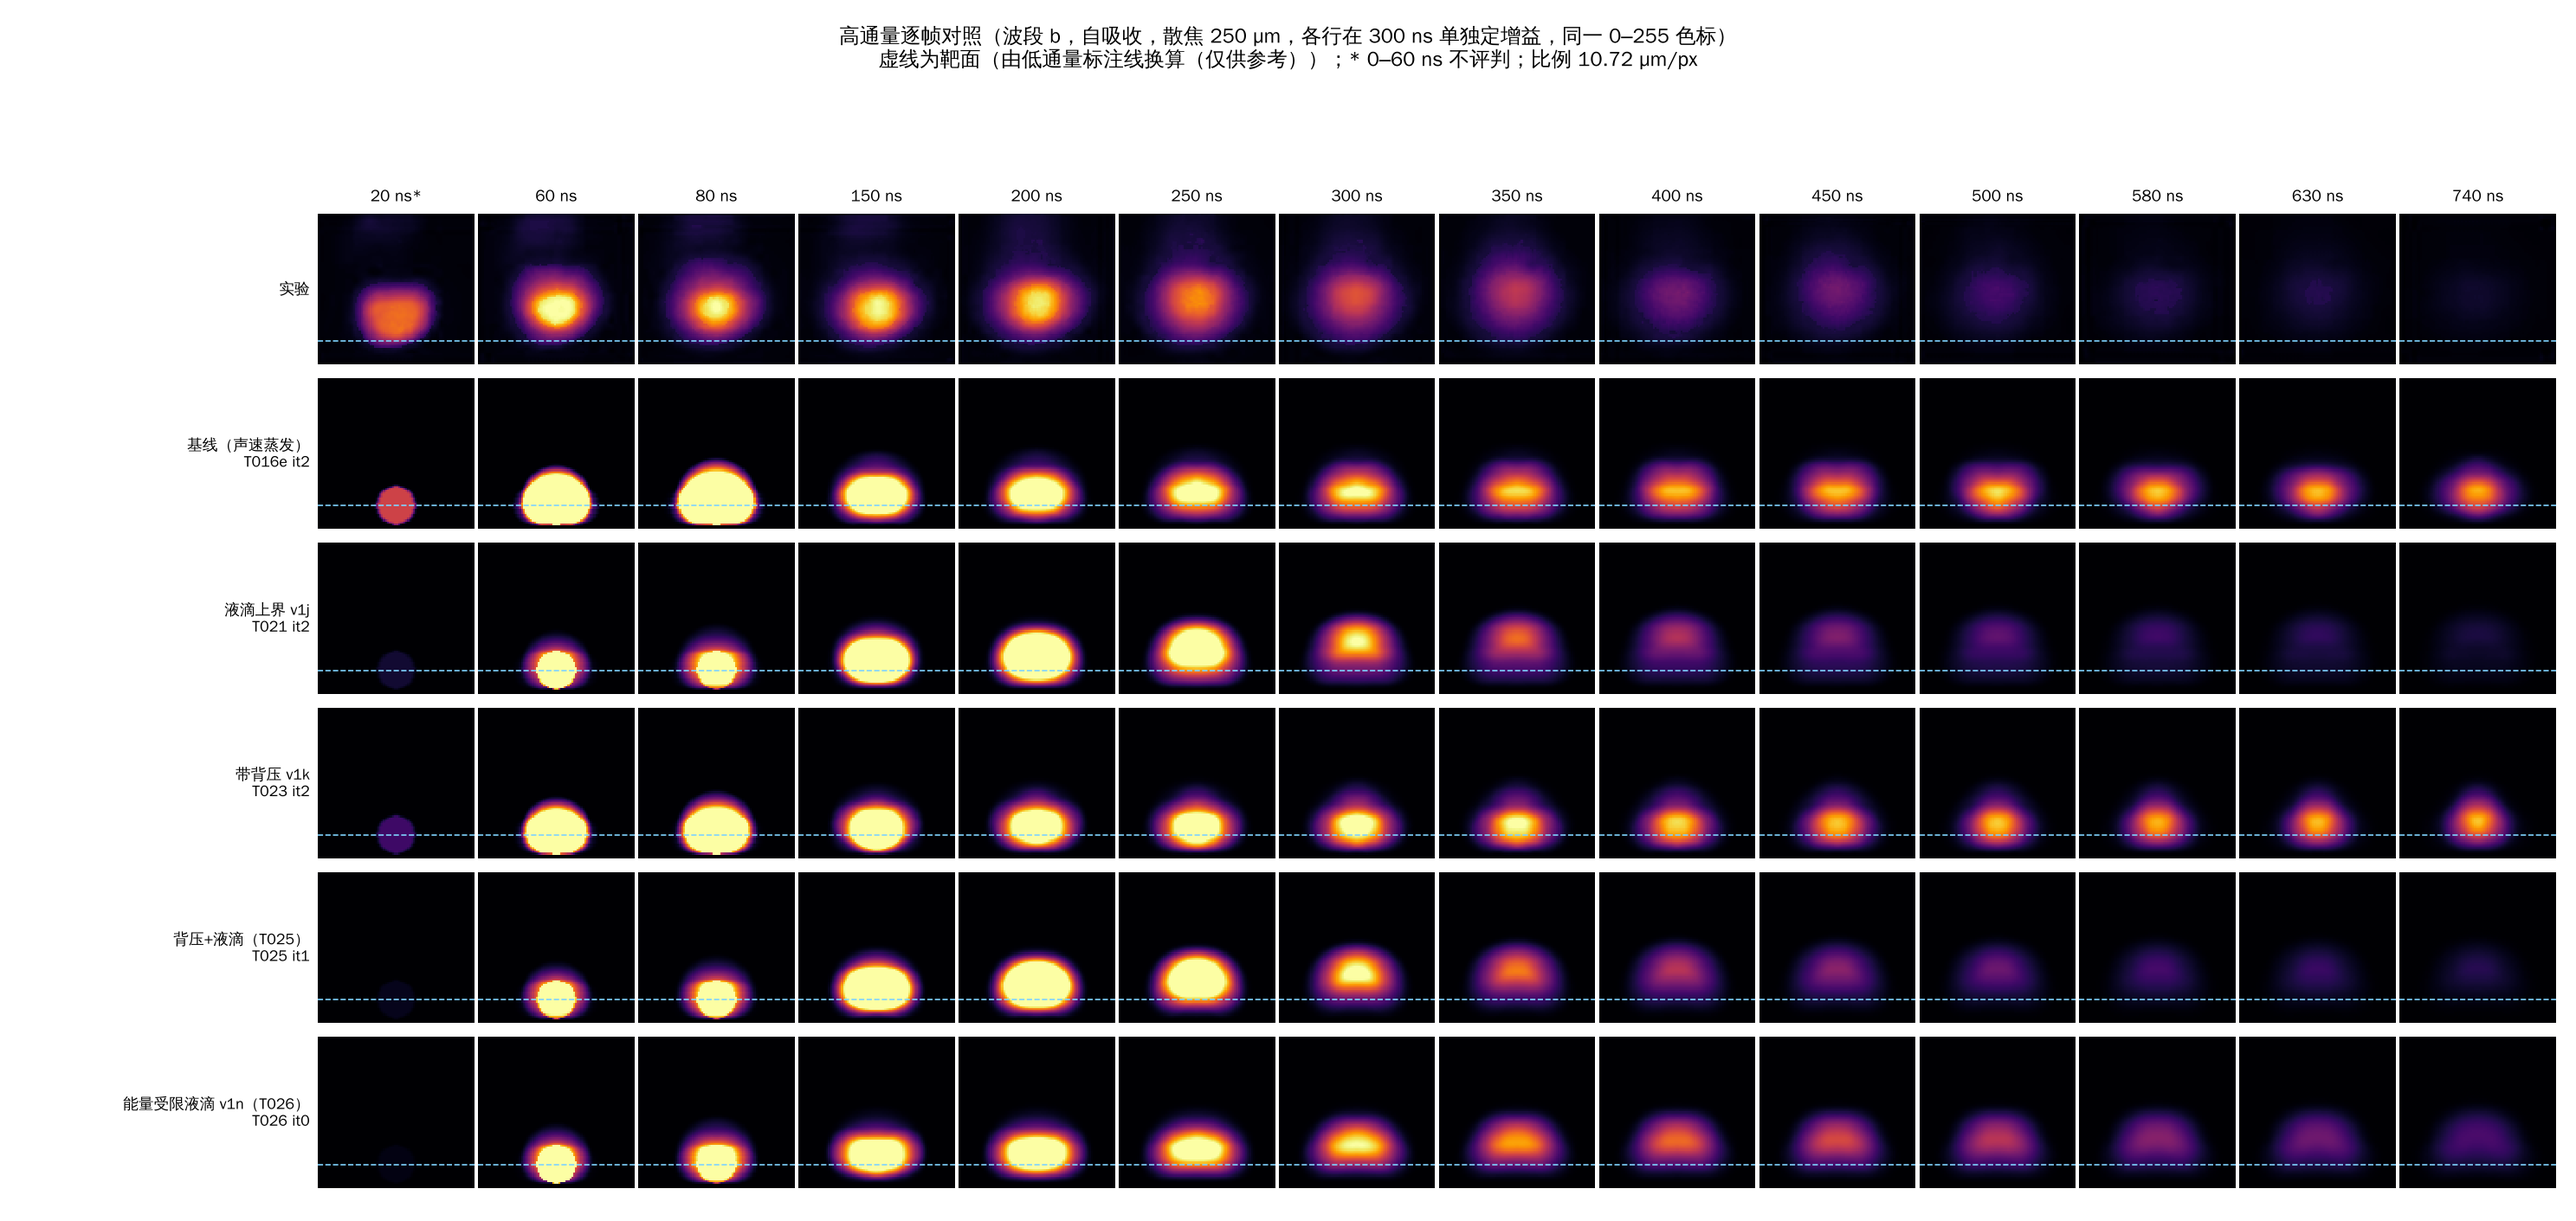
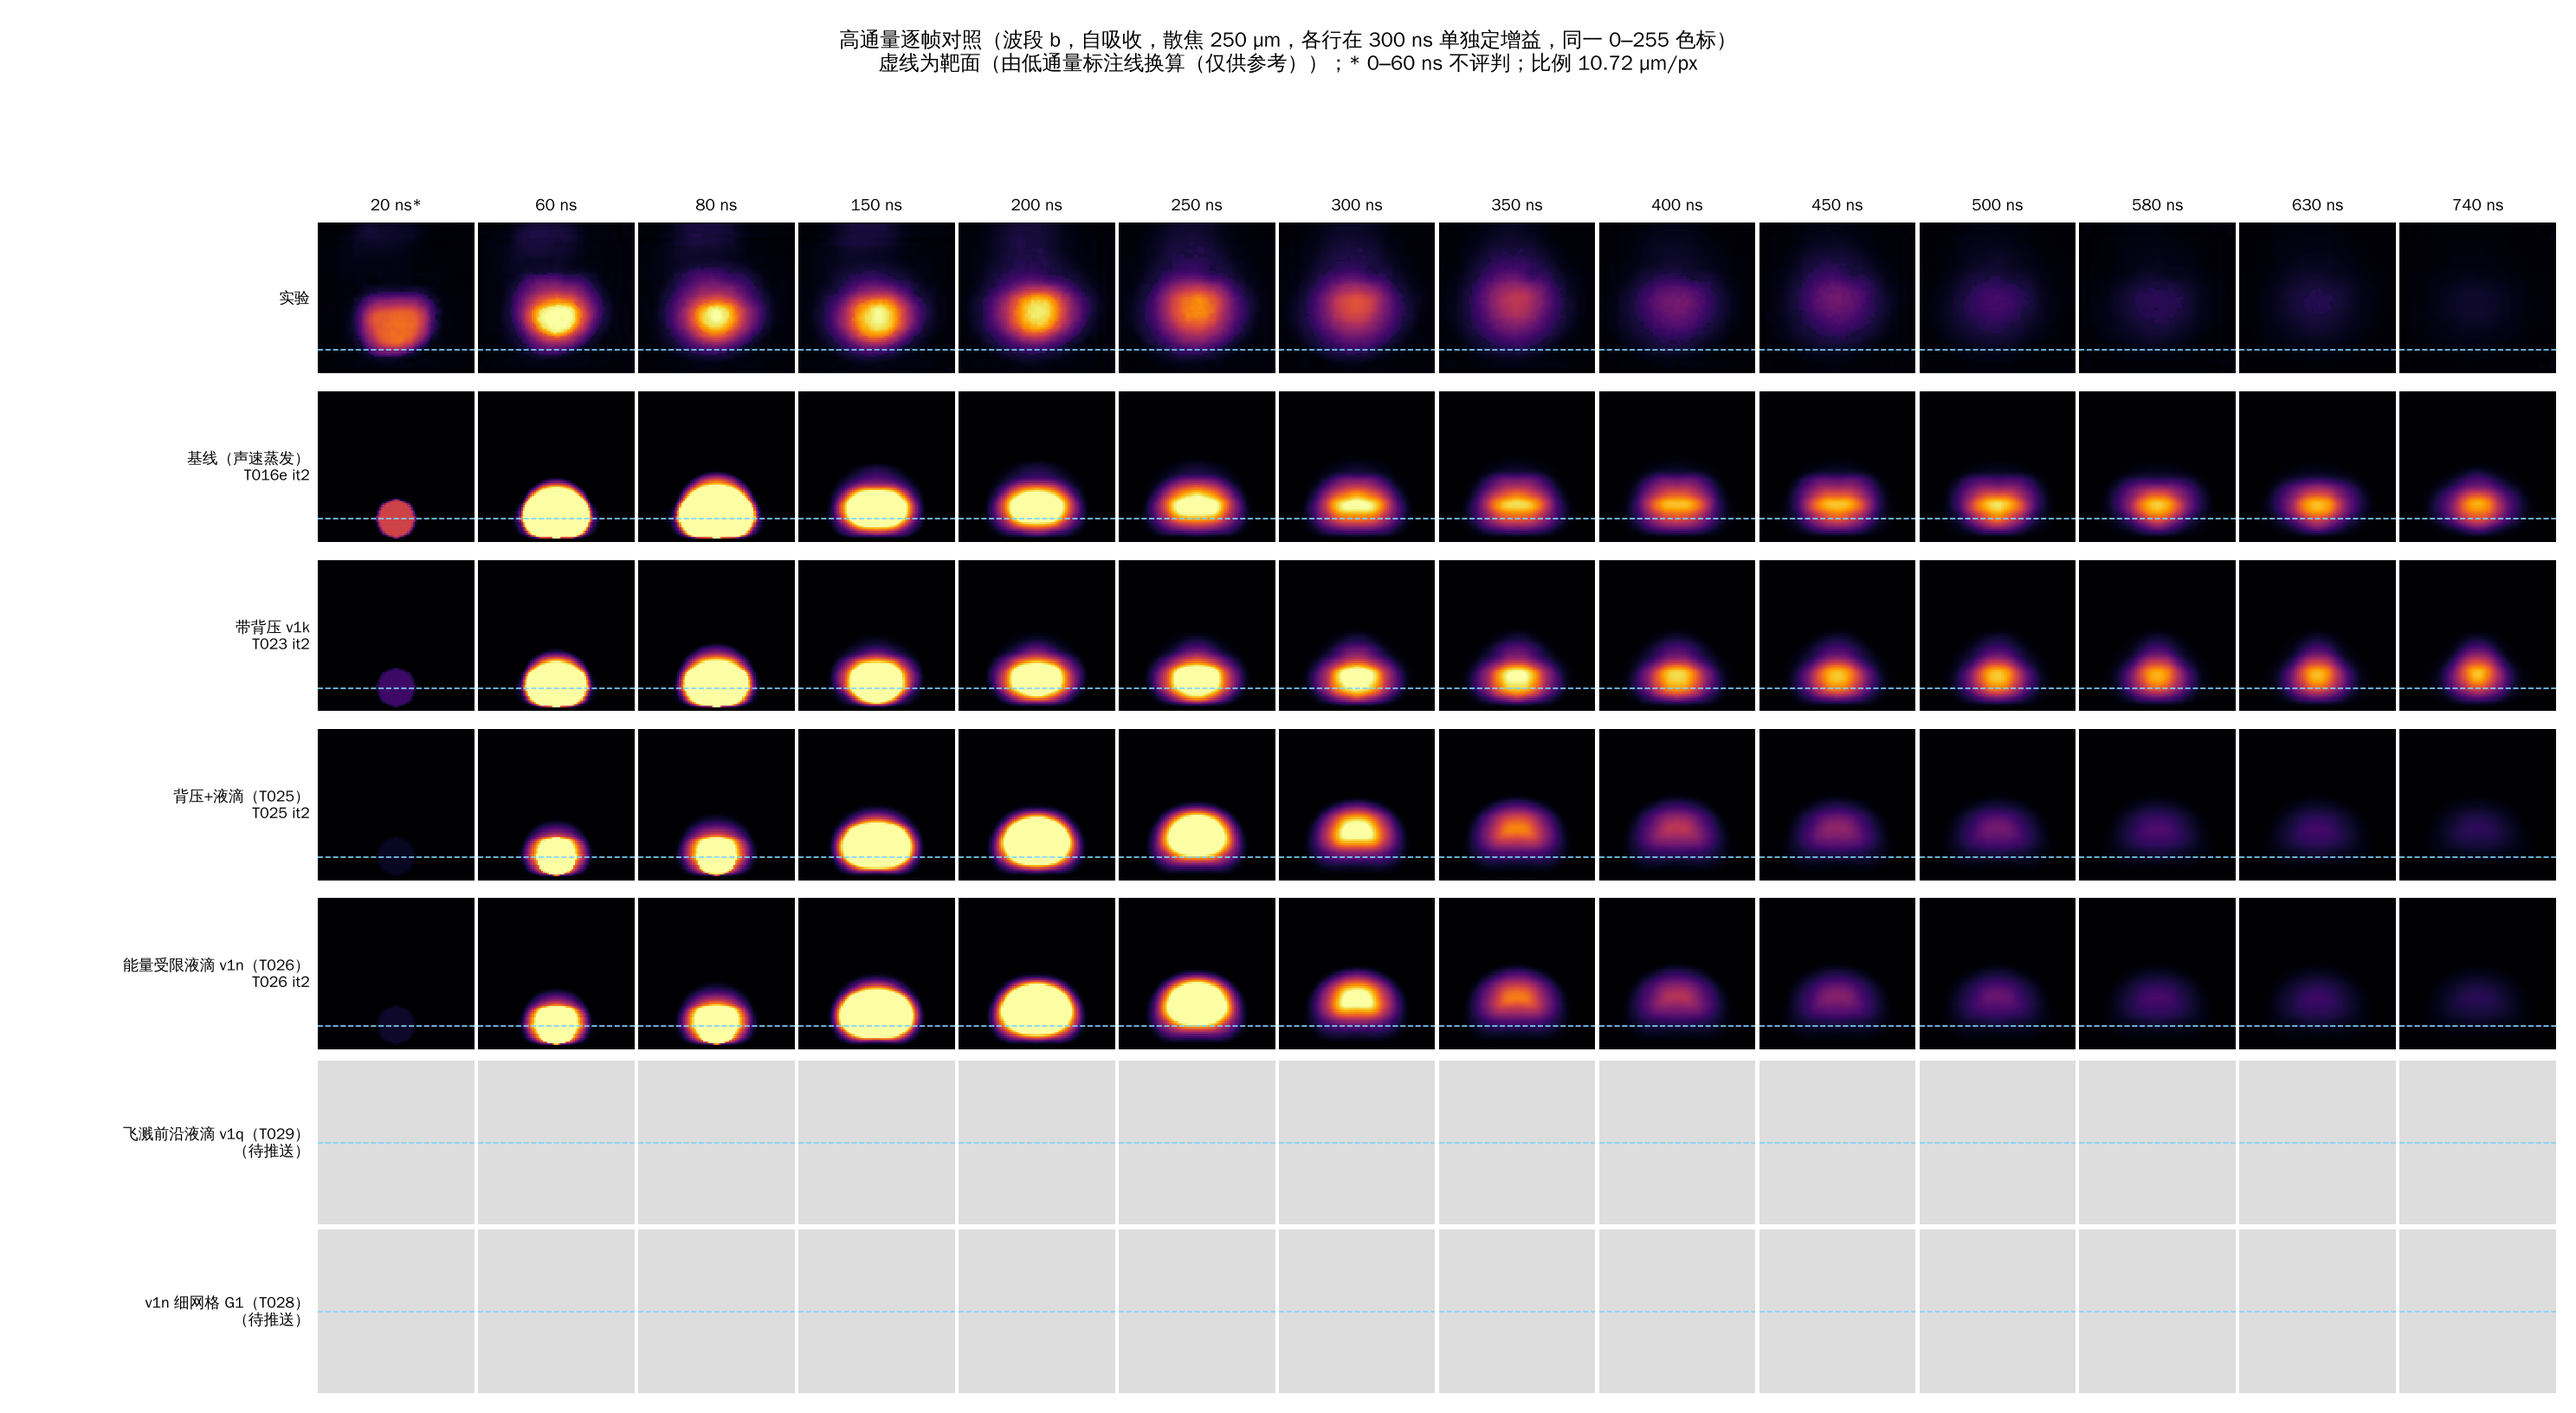
Full comparison: T026/T025 final iterations; T029 and T028 G1 rows; T021 replaced by T026
Claude-Session: https://claude.ai/code/session_01FS7WDGPKzwdDyXZyPwrs24

diff --git a/scripts/plot_full_comparison.py b/scripts/plot_full_comparison.py
@@ -43,8 +43,8 @@ plt.rcParams.update({"font.size": 9, "axes.spines.top": False, "axes.spines.righ
 LOGFMT = FuncFormatter(lambda v, _: f"{v:g}")
 T_REF = 300.0  # num (registry t_ref_norm, ns)
 K = "#222222"
-COL = {"baseline": "#2a78d6", "droplets": "#eb6834", "backpress": "#1baf7a", "combo": "#8e44ad", "elim": "#c0392b"}
-LAB = {"baseline": "基线（声速蒸发）", "droplets": "液滴上界 v1j", "backpress": "带背压 v1k", "combo": "背压+液滴（T025）", "elim": "能量受限液滴 v1n（T026）"}
+COL = {"baseline": "#2a78d6", "droplets": "#eb6834", "backpress": "#1baf7a", "combo": "#8e44ad", "elim": "#c0392b", "spatter": "#7f8c8d", "g1": "#000000"}
+LAB = {"baseline": "基线（声速蒸发）", "droplets": "液滴上界 v1j", "backpress": "带背压 v1k", "combo": "背压+液滴（T025）", "elim": "能量受限液滴 v1n（T026）", "spatter": "飞溅前沿液滴 v1q（T029）", "g1": "v1n 细网格 G1（T028）"}
 
 
 def latest(base, its):
@@ -57,15 +57,17 @@ def latest(base, its):
 
 MEMBERS = {
     "high": {"baseline": latest("results/T016e/high_thin_G0", ["it2"]),
-             "droplets": latest("results/T021/high_thin_G0", ["it2"]),
              "backpress": latest("results/T023/high_thin_G0", ["it2", "it1"]),
              "combo": latest("results/T025/high_thin_G0", ["it2", "it1", "it0"]),
-             "elim": latest("results/T026/high_thin_G0", ["it2", "it1", "it0"])},
+             "elim": latest("results/T026/high_thin_G0", ["it2", "it1", "it0"]),
+             "spatter": latest("results/T029/high_thin_G0", ["it2", "it1", "it0"]),
+             "g1": latest("results/T028/high_thin_G1", ["it0"])},
     "low": {"baseline": latest("results/T016e/low_thin_G0", ["it1"]),
-            "droplets": latest("results/T021/low_thin_G0", ["it1"]),
             "backpress": latest("results/T023/low_thin_G0", ["it1", "it0"]),
             "combo": latest("results/T025/low_thin_G0", ["it1", "it0"]),
-            "elim": latest("results/T026/low_thin_G0", ["it1", "it0"])},
+            "elim": latest("results/T026/low_thin_G0", ["it1", "it0"]),
+            "spatter": latest("results/T029/low_thin_G0", ["it1", "it0"]),
+            "g1": latest("results/T028/low_thin_G1", ["it0"])},
 }
 SHOCK = {"high": {"baseline": "results/T016e/high_thin_G0/it2/shock_track.csv"},
          "low": {"baseline": "results/T016e/low_thin_G0/it2/shock_track.csv"}}
